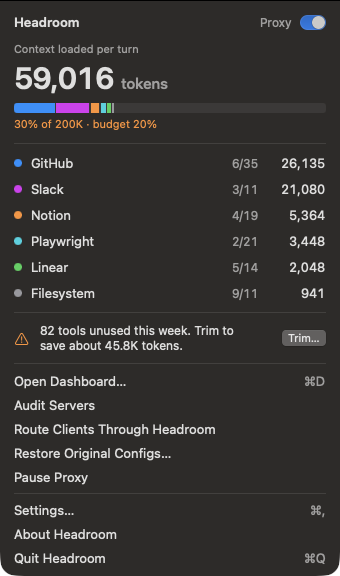
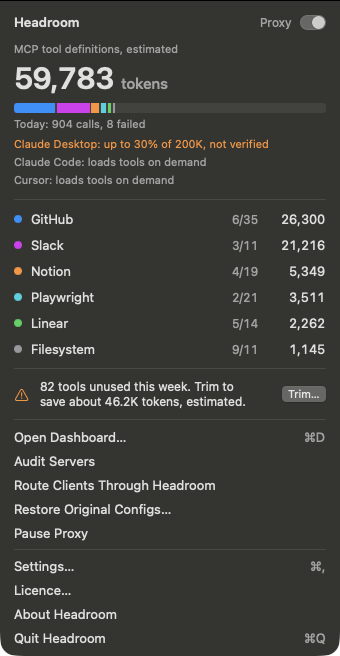
Copy around the new positioning: every MCP server, working in every client, see every call; no claims that tools always use up context

diff --git a/site/index.html b/site/index.html
@@ -3,8 +3,8 @@
 <head>
 <meta charset="utf-8">
 <meta name="viewport" content="width=device-width, initial-scale=1">
-<title>Headroom for Mac: see what your MCP servers cost</title>
-<meta name="description" content="A menu bar app that shows what your MCP servers cost you in context tokens, and what they are doing, live. Free in-browser audit.">
+<title>Headroom for Mac: every MCP server, working in every client</title>
+<meta name="description" content="Every MCP server, working in every client. See every call. A Mac menu bar app that fixes what one app would reject, gives each app its own tools, and shows every call live. Free in-browser audit.">
 <link rel="icon" href="icon.png">
 <style>
 :root {
@@ -100,8 +100,8 @@ footer .wrap { display: flex; justify-content: space-between; gap: 16px; padding
 
 <header class="hero wrap">
   <p class="eyebrow">Headroom for Mac</p>
-  <h1>Every tool call.<br>Every token.</h1>
-  <p class="lede">A menu bar app that shows what your MCP servers cost you, and what they're doing, live.</p>
+  <h1>Every MCP server,<br>working in every client.</h1>
+  <p class="lede">See every call. Headroom sits between your apps and your MCP servers, smooths over what one app would reject, and gives each app the tools it should have.</p>
   <div class="ctas">
     <a class="btn buy" id="buy-hero" href="#pricing">Buy</a>
     <a href="#audit">Try the free audit ›</a>
@@ -112,7 +112,7 @@ footer .wrap { display: flex; justify-content: space-between; gap: 16px; padding
   <div class="desk">
     <picture>
       <source srcset="popover-dark.png" media="(prefers-color-scheme: dark)">
-      <img src="popover-light.png" alt="The Headroom menu bar popover: 59,016 tokens of context loaded per turn across six servers, with a note that 82 tools went unused this week." width="340" height="576">
+      <img src="popover-light.png" alt="The Headroom menu bar popover: six MCP servers with their estimated tool definition size, how each app loads them, and today's calls." width="340" height="656">
     </picture>
   </div>
 </div>
@@ -120,7 +120,7 @@ footer .wrap { display: flex; justify-content: space-between; gap: 16px; padding
 <section class="audit" id="audit">
   <div class="wrap">
     <h2>Check your setup in seconds.</h2>
-    <p class="sub">Paste your config. It runs in your browser, so nothing leaves your machine.</p>
+    <p class="sub">Paste your config to see each server's tools, write tools and name clashes. It runs in your browser, so nothing leaves your machine.</p>
     <div class="cards">
       <div class="card">
         <h3>MCP config</h3>
@@ -144,18 +144,18 @@ footer .wrap { display: flex; justify-content: space-between; gap: 16px; padding
   <section class="features" id="features" aria-label="Features">
     <div>
       <svg viewBox="0 0 28 28"><path d="M2 14h6l3-8 6 16 3-8h6"/></svg>
-      <h3>Live traffic</h3>
-      <p>Every call from Claude, Cursor and VS Code, with latency and status.</p>
+      <h3>See every call</h3>
+      <p>Every call from Claude, Claude Code, Cursor and VS Code, with latency and status, as it happens.</p>
     </div>
     <div>
-      <svg viewBox="0 0 28 28"><path d="M4 20a10 10 0 1 1 20 0"/><path d="M14 20l5-7"/></svg>
-      <h3>Exact token cost</h3>
-      <p>See what each server loads into every turn, local servers included.</p>
+      <svg viewBox="0 0 28 28"><path d="M6 14l5 5 11-11"/></svg>
+      <h3>Works in every app</h3>
+      <p>Compatibility fixes let a server made for one app work in the others. Each fix is listed and can be turned off.</p>
     </div>
     <div>
       <svg viewBox="0 0 28 28"><path d="M5 8h18M5 14h12M5 20h6"/></svg>
-      <h3>One-click trim</h3>
-      <p>Keep the tools you use. Turn the rest off for every client.</p>
+      <h3>Tools per app</h3>
+      <p>Give each app its own tools. Write and delete tools stay off until you turn them on. VS Code stays under its 128-tool limit.</p>
     </div>
     <div>
       <svg viewBox="0 0 28 28"><rect x="6" y="12" width="16" height="12" rx="2.5"/><path d="M9.5 12V9a4.5 4.5 0 0 1 9 0v3"/></svg>
@@ -223,7 +223,8 @@ async function run() {
   const known = r.rows.filter(x => x.tokens !== null);
   report.innerHTML = `<h3>Report</h3>
     <div class="big">${r.total.toLocaleString('en-US')}</div>
-    <div class="muted" style="font-size:14px">tokens loaded every turn, ${Math.round(r.pct * 100)}% of a ${k(r.contextWindow)} window${r.unknown ? `, plus ${r.unknown} server${r.unknown === 1 ? '' : 's'} not measured here` : ''}</div>
+    <div class="muted" style="font-size:14px">tokens of tool definitions, estimated${r.unknown ? `, plus ${r.unknown} server${r.unknown === 1 ? '' : 's'} not measured here` : ''}</div>
+    <p class="note muted" style="margin-top:6px">Apps that load tools on demand, like Claude Code and Cursor, only pay for what they use. An app that sends every tool with every message pays all of it: ${Math.round(r.pct * 100)}% of a ${k(r.contextWindow)} window.</p>
     <div class="bar">${known.map((x, i) => `<div title="${esc(x.name)}" style="width:${(x.tokens / r.contextWindow) * 100}%;background:${COLORS[i % COLORS.length]}"></div>`).join('')}</div>
     <ul class="rows">${r.rows.map((x, i) => `<li>
       <input type="checkbox" checked data-name="${esc(x.name)}" aria-label="Keep ${esc(x.name)}">
@@ -233,7 +234,7 @@ async function run() {
     ${r.clashes.length ? `<p class="note warn"><b>${r.clashes.length} name clash${r.clashes.length === 1 ? '' : 'es'}.</b> A tool called ${esc(r.clashes[0].tool)} appears in ${esc(r.clashes[0].servers.join(', '))}.</p>` : ''}
     ${r.writeTools.length ? `<p class="note warn"><b>${r.writeTools.length} write tools.</b> Including ${esc(r.writeTools.slice(0, 3).join(', '))}.</p>` : ''}
     <p class="note"><a href="#" id="download">Download config without unchecked servers ›</a></p>
-    <p class="note muted">Measured ${esc(catalog.measured)} with the latest published versions and a close estimate of Claude's tokenizer. Your versions may differ; the Mac app measures what you actually run.</p>`;
+    <p class="note muted">Measured ${esc(catalog.measured)} with the latest published versions. Token figures are estimates calibrated against Claude Code. Your versions may differ; the Mac app measures what you actually run.</p>`;
   $('download').onclick = e => {
     e.preventDefault();
     const remove = [...report.querySelectorAll('input[type=checkbox]')].filter(c => !c.checked).map(c => c.dataset.name);

diff --git a/mac/Sources/Headroom/OnboardingView.swift b/mac/Sources/Headroom/OnboardingView.swift
@@ -16,7 +16,7 @@ struct OnboardingView: View {
                 Image(nsImage: NSApp.applicationIconImage).resizable().frame(width: 56, height: 56)
                 VStack(alignment: .leading, spacing: 2) {
                     Text("Welcome to Headroom").font(.title2.weight(.semibold))
-                    Text("See what your MCP servers cost and what they are doing.").foregroundStyle(.secondary)
+                    Text("Every MCP server, working in every client. See every call.").foregroundStyle(.secondary)
                 }
             }
             switch step {
@@ -35,8 +35,9 @@ struct OnboardingView: View {
     private var intro: some View {
         VStack(alignment: .leading, spacing: 16) {
             VStack(alignment: .leading, spacing: 8) {
-                Label("Every tool an MCP server offers is loaded into the model's context on every turn. Headroom measures that cost.", systemImage: "gauge.with.dots.needle.33percent")
-                Label("It can also show each tool call live and turn off the tools you never use.", systemImage: "list.bullet.rectangle")
+                Label("Headroom sits between your apps and your MCP servers and shows every call as it happens.", systemImage: "list.bullet.rectangle")
+                Label("It smooths over small differences, so a server that works in one app works in the others, and gives each app its own set of tools.", systemImage: "checkmark.circle")
+                Label("It estimates what tool definitions cost in each app. Some apps load tools on demand; others send every tool with every message.", systemImage: "gauge.with.dots.needle.33percent")
                 Label("Everything stays on this Mac. Nothing is sent anywhere.", systemImage: "lock")
             }
             .labelStyle(OnboardingLabelStyle())
@@ -60,8 +61,9 @@ struct OnboardingView: View {
                     .fixedSize(horizontal: false, vertical: true)
                 HStack { Spacer(); Button("Done") { finish() }.keyboardShortcut(.defaultAction) }
             } else {
-                Text("Your tools load \(Format.grouped(engine.summary.totalTokens)) tokens per turn, \(Format.percent(engine.summary.pctOfWindow)) of a \(Format.tokens(engine.summary.contextWindow)) window.")
+                Text("\(results.filter(\.ok).count) of \(results.count) servers answered. Their tool definitions come to about \(Format.grouped(engine.summary.totalTokens)) tokens, estimated.")
                     .font(.headline)
+                    .fixedSize(horizontal: false, vertical: true)
                 ScrollView {
                     VStack(spacing: 0) {
                         ForEach(results) { r in
@@ -84,7 +86,7 @@ struct OnboardingView: View {
                     }
                 }
                 .frame(maxHeight: 220)
-                Text("To see calls live and trim unused tools, route your clients through Headroom. It backs up each config first, and you can undo this any time with Restore Original Configs in the menu bar.")
+                Text("To see every call, apply compatibility fixes and set tools per app, route your clients through Headroom. It backs up each config first, and you can undo this any time with Restore Original Configs in the menu bar.")
                     .font(.callout).foregroundStyle(.secondary)
                     .fixedSize(horizontal: false, vertical: true)
                 HStack {

diff --git a/src/cli.js b/src/cli.js
@@ -11,7 +11,7 @@ import { pruneEvents } from './store.js';
 import { runDoctor } from './doctor.js';
 import { ensureTrialStarted } from './license.js';
 
-const HELP = `headroom: see what your MCP servers cost you and what they're doing.
+const HELP = `headroom: every MCP server, working in every client. See every call.
 
 Usage:
   headroom audit [--json] [server...]   Connect to every configured server and measure its tools
@@ -64,7 +64,7 @@ function printSummary(s) {
   if (writes.length) console.log(`\nWrite or delete tools loaded: ${writes.length} (e.g. ${writes.slice(0, 4).join(', ')})`);
   if (s.hasUsageData) {
     console.log(`\nToday: ${s.today.calls} tool calls, ${pct(s.today.failedPct)} failed, median ${s.today.medianMs ?? '-'} ms`);
-    if (s.trimmableTokens) console.log(`${s.unusedTools} tools unused in 7 days. \`headroom trim --apply\` saves about ${k(s.trimmableTokens)} tokens per turn.`);
+    if (s.trimmableTokens) console.log(`${s.unusedTools} tools unused in 7 days. \`headroom trim --apply\` saves about ${k(s.trimmableTokens)} tokens, estimated.`);
     if (s.idleServers.length) console.log(`Not called in 7 days: ${s.idleServers.join(', ')}. Consider removing them from your client config.`);
   } else {
     console.log('\nNo usage data yet. Run `headroom install` so calls go through the proxy.');
@@ -151,7 +151,7 @@ async function main() {
       for (const c of plan.changes) {
         console.log(c.action === 'trim' ? `${c.server} in ${c.clientLabel}: keep ${c.keep} of ${c.of} tools, saves about ${k(c.savedTokens)} tokens` : `${c.server}: skipped (${c.reason})`);
       }
-      console.log(`\nTotal saving: about ${k(plan.savedTokens)} tokens per turn.`);
+      console.log(`\nTotal saving: about ${k(plan.savedTokens)} tokens of tool definitions, estimated.`);
       console.log(flag('--apply') ? 'Applied. Restart your MCP clients to reload tool lists.' : 'Dry run. Add --apply to turn the unused tools off.');
       return;
     }

diff --git a/src/dashboard.html b/src/dashboard.html
@@ -222,7 +222,7 @@ function renderSummary() {
   if (vs) issues.push(['var(--orange)', `VS Code has ${vs.toolCount} MCP tools`, `Its limit is ${vs.limit} per request. <a href="#" id="vscode-profile">Use a trimmed VS Code profile</a> (keeps what VS Code used, then read-only tools).`, true]);
   const fixes = s.fixes || [];
   for (const f of fixes) issues.push(['var(--blue)', f.note, `Compatibility fix "${f.name}". Turn it off in Settings.`]);
-  if (s.hasUsageData && s.unusedTools) issues.push(['var(--orange)', `${s.unusedTools} tools never called`, `Trim them to save about ${k(s.trimmableTokens)} tokens per turn.`]);
+  if (s.hasUsageData && s.unusedTools) issues.push(['var(--orange)', `${s.unusedTools} tools never called`, `Trimming saves about ${k(s.trimmableTokens)} tokens, estimated, in apps that send every tool.`]);
   for (const c of s.clashes.slice(0, 3)) issues.push(['var(--orange)', `${c.tool} appears ${c.servers.length} times`, `${c.servers.join(', ')} all expose a tool named ${c.tool}.`]);
   if (s.headlineClient && s.pctOfWindow * 100 > s.budgetPct) issues.push(['var(--orange)', `Over budget in ${s.headlineClient}`, `Tool definitions could take up to ${Math.round(s.pctOfWindow * 100)}% of its ${k(s.contextWindow)} window.`]);
   $('issues').innerHTML = issues.map(([c, t, b, html]) => `<div class="issue"><span class="dot" style="background:${c}"></span><div><b>${esc(t)}</b><span>${html ? b : esc(b)}</span></div></div>`).join('') || '<div class="sub">Nothing needs attention.</div>';

diff --git a/mac/Sources/Headroom/PopoverView.swift b/mac/Sources/Headroom/PopoverView.swift
@@ -65,6 +65,9 @@ struct PopoverView: View {
             StorageBar(servers: s.servers, window: s.contextWindow, colors: Self.palette)
                 .frame(height: 10)
                 .padding(.top, 4)
+            Text(s.today.calls == 0 ? "No calls yet today" : "Today: \(Format.grouped(s.today.calls)) calls, \(s.today.failed) failed")
+                .font(.system(size: 11)).foregroundStyle(.secondary)
+                .padding(.bottom, 2)
             ForEach(s.perClient) { c in
                 Text(clientLine(c))
                     .font(.system(size: 11))
@@ -104,7 +107,7 @@ struct PopoverView: View {
     private var notice: some View {
         HStack(spacing: 10) {
             Image(systemName: "exclamationmark.triangle").foregroundStyle(.orange)
-            Text("\(s.unusedTools) tools unused this week. Trim to save about \(Format.tokens(s.trimmableTokens)) tokens.")
+            Text("\(s.unusedTools) tools unused this week. Trim to save about \(Format.tokens(s.trimmableTokens)) tokens, estimated.")
                 .font(.system(size: 12))
                 .fixedSize(horizontal: false, vertical: true)
             Spacer(minLength: 0)

diff --git a/README.md b/README.md
@@ -1,15 +1,20 @@
 # Headroom
 
-A Mac menu bar app that shows what your MCP servers cost in context tokens on every turn, and what they are doing, live.
+Every MCP server, working in every client. See every call.
 
-Every tool an MCP server offers is sent to the model with every message. A few busy servers can take a quarter of the context window before you type a word. Headroom measures that, shows each tool call as it happens, and turns off the tools you never use.
+Headroom is a Mac menu bar app that sits between your apps (Claude Desktop, Claude Code, Cursor, VS Code) and your MCP servers.
+
+- **See every call** as it happens, with latency and status, in the menu bar and a local dashboard.
+- **Works in every app.** Compatibility fixes let a server made for one app work in the others, for example by removing schema lines Claude Desktop rejects. Each fix is listed in Settings and can be turned off.
+- **Tools per app.** Give each app its own set of tools. On new installs, write and delete tools stay off until you turn them on. VS Code gets a warning and a trimmed profile when it passes its 128-tool limit.
+- **Estimated cost per app.** Tool definitions take room in the model's context, but how much depends on the app: Claude Code and Cursor load tools on demand, VS Code sends every tool with each request. Headroom's figures are estimates, calibrated against Claude Code.
 
 ## Install
 
 1. Open the Headroom DMG and drag Headroom to Applications.
 2. Open Headroom. It lives in the menu bar; there is no Dock icon.
-3. The welcome window checks the servers in Claude Desktop, Claude Code, Cursor and VS Code, and shows what each one costs.
-4. To see calls live, choose **Route through Headroom**, then restart your MCP clients.
+3. The welcome window checks the servers in Claude Desktop, Claude Code, Cursor and VS Code and lists their tools.
+4. To see calls live and use the fixes and per-app tools, choose **Route through Headroom**, then restart your MCP clients.
 
 Needs macOS 14 or later. Everything works free for 14 days; after that, audit and the dashboard keep working, and live logging, trim and notifications need a licence.
 
@@ -22,12 +27,12 @@ Checking your servers changes nothing. Routing clients through Headroom does:
 - Shared project files (`.mcp.json` in a repo) and servers that come with Claude Code plugins are never rewritten. They are measured, not proxied.
 - Before any config is written, a copy is saved to `~/Library/Application Support/Headroom/backups`.
 
-Trim writes an allow-list: tools you did not use in the last 7 days are hidden from the model. Servers you did not use at all are left alone, so a quiet week never breaks anything.
+Tool sets are per app. Trim keeps, for each app, the tools it used in the last 7 days; an app that never called a server keeps all of that server's tools, so a quiet week never breaks anything.
 
 ## How to undo
 
 - **Restore Original Configs…** in the menu bar puts every config back to connect directly. Restart your clients afterwards.
-- In the dashboard, **Servers**, **Turn all on** undoes a trim for one server.
+- In the dashboard, **Servers**, pick an app and choose **Use default** to undo its tool set for a server.
 - The backups folder has the exact files from before each change.
 - To remove Headroom completely: restore original configs, quit Headroom, delete it from Applications, and delete `~/Library/Application Support/Headroom`.
 

diff --git a/CLAUDE.md b/CLAUDE.md
@@ -131,6 +131,6 @@ Positioning: "Every MCP server, working in every client. See every call." Never 
 - [x] Allow-lists per client: each client can get its own tool set (proxy knows the client from `initialize`). Write and delete tools off by default on new installs; existing installs keep everything on. Dashboard lets you turn tools on per client. Trim works per client. Tests.
 - [x] VS Code guard: warn when VS Code's MCP tools pass 128, and offer a trimmed VS Code profile (used tools first, then read-only ones, capped at 128). Tests.
 - [x] Compatibility fixes as a named list in Settings (app and dashboard), starting with "Remove $schema from tool schemas" (draft-07, Claude Desktop). Each fix is a small module with an id, name, description and apply function, so new ones slot in. Tests.
-- [ ] Copy rewrite around the new positioning: website, popover, onboarding, README. Remove every claim that tools always eat your context. Redeploy the site.
+- [x] Copy rewrite around the new positioning: website, popover, onboarding, README. Remove every claim that tools always eat your context. Redeploy the site.
 
 Definition of done: M1 to M10 ticked except items blocked on a STOP, which are listed in a "Waiting on Kugen" section at the top of this file.
